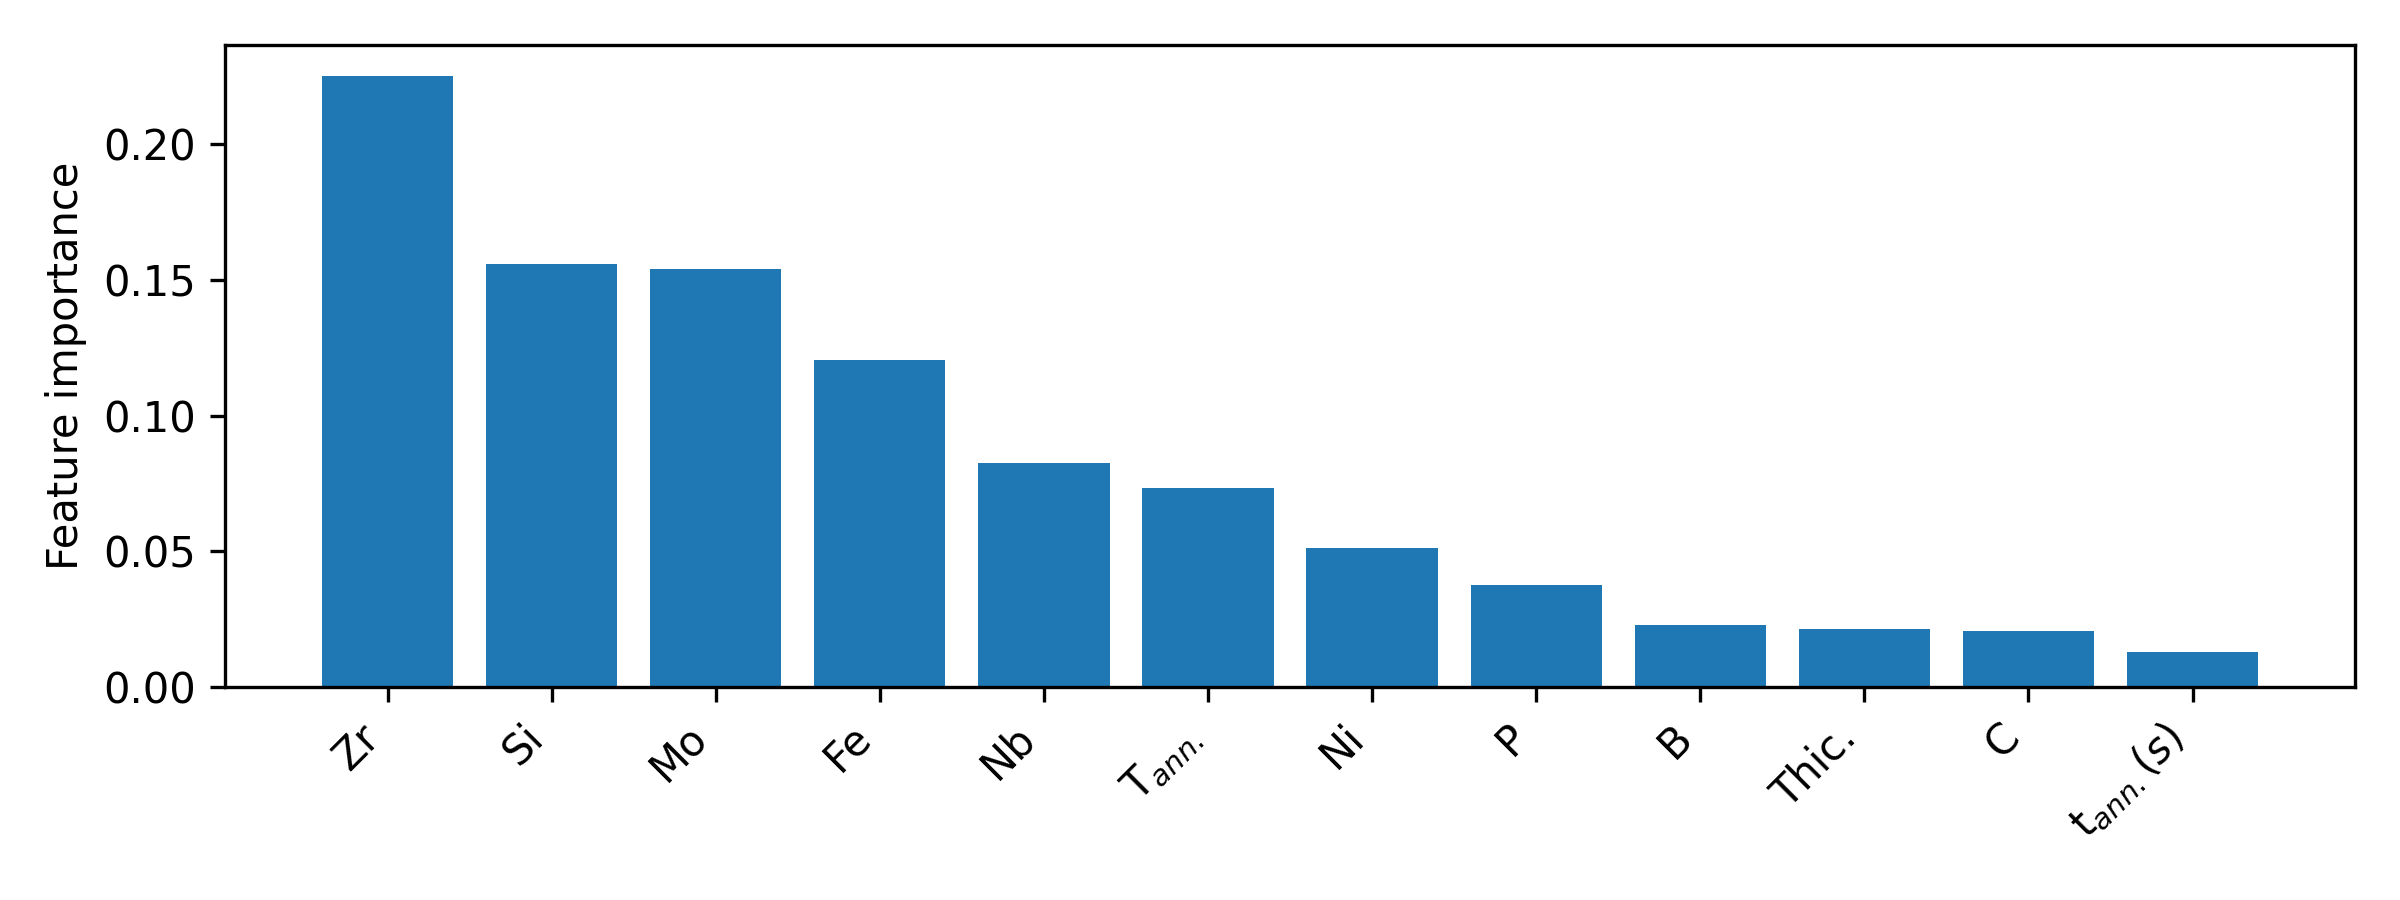
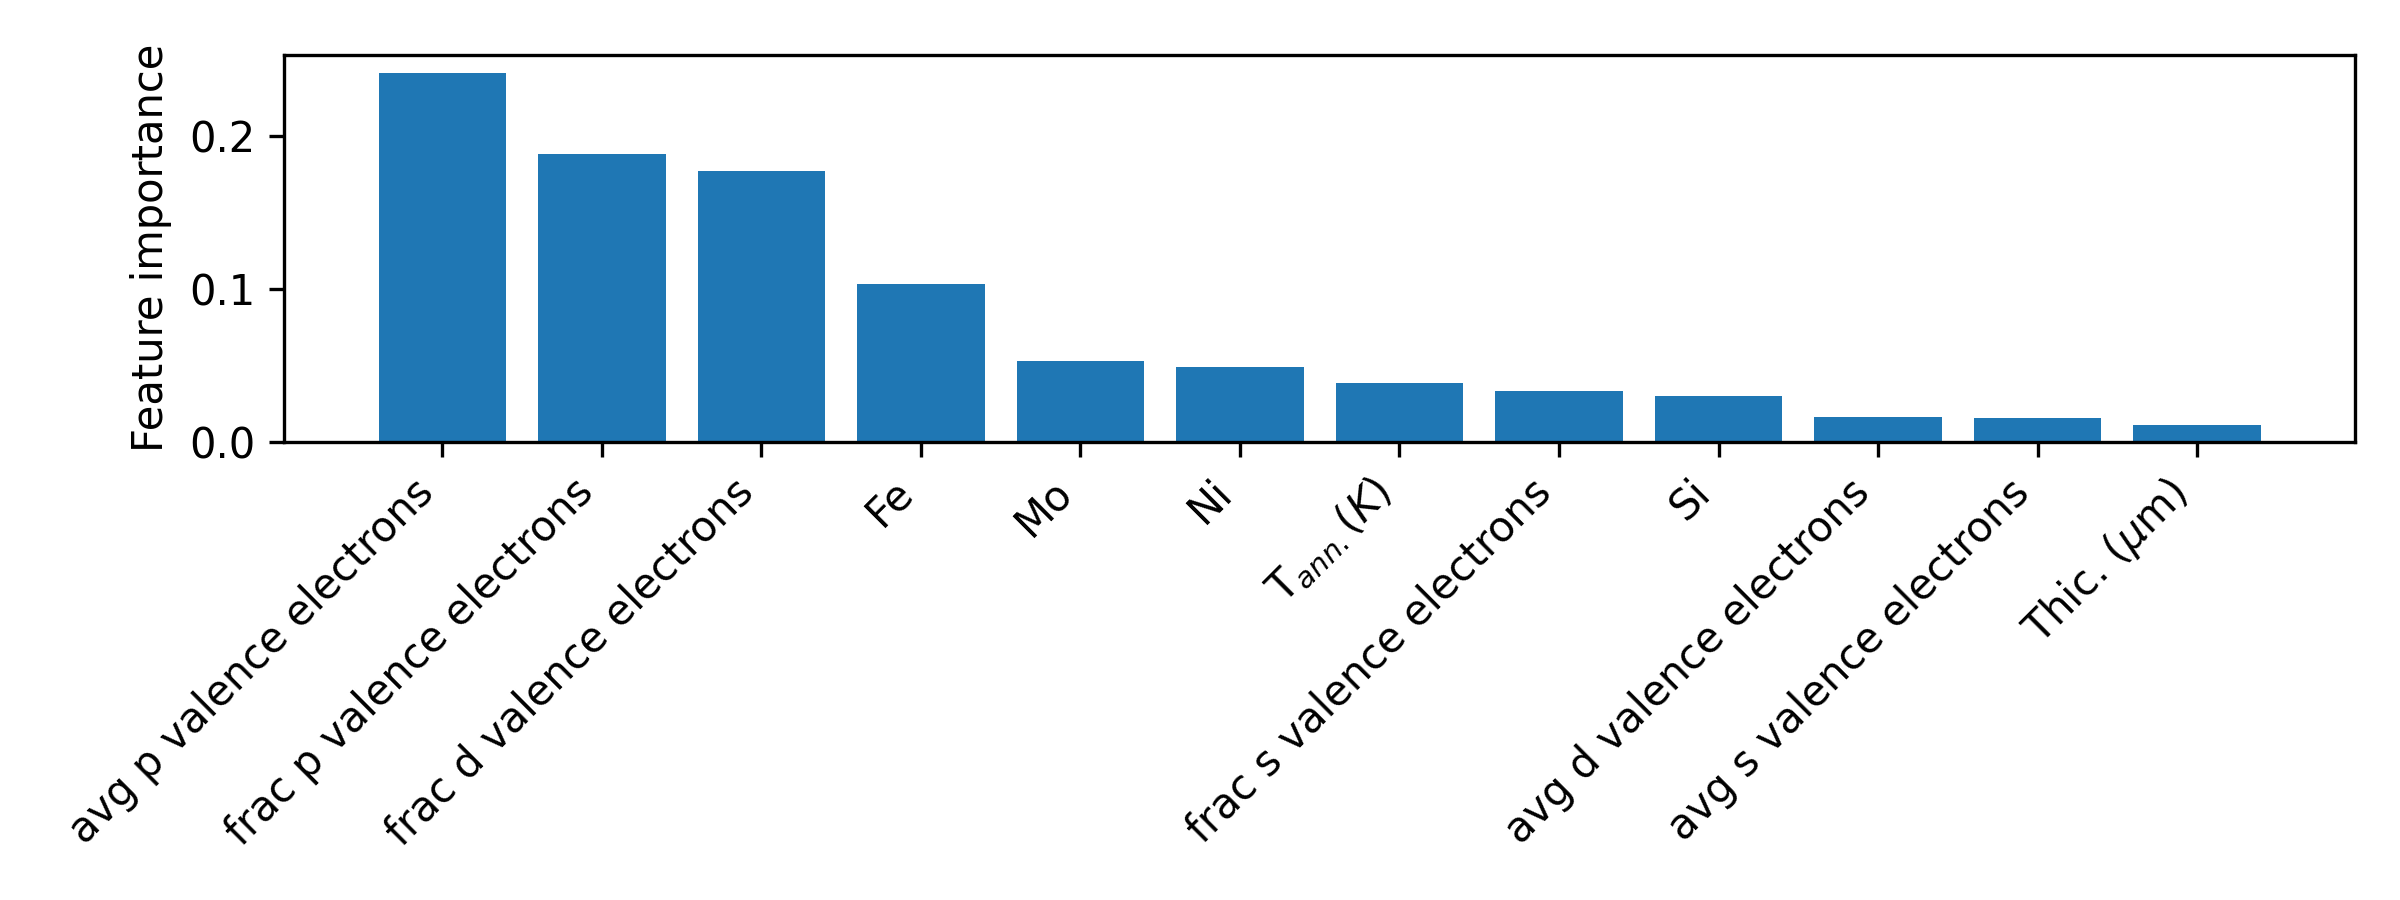
add_feature now contains all relevant features I am inspecting. Corrected typos in NOTES.md. fit_Tc.ipynb now uses add_feature from utils.

diff --git a/utils/add_feature.py b/utils/add_feature.py
@@ -14,3 +14,28 @@ def add_magpie(df, composition_col_name="composition"):
     magpie_properties = ElementProperty.from_preset(preset_name='magpie')
     df = magpie_properties.featurize_dataframe(df, "composition")
     return df
+
+def add_valence_orbitals(df, composition_col_name="composition"):
+    from matminer.featurizers.composition.orbital import ValenceOrbital
+    val_orb_properties = ValenceOrbital()
+    df = val_orb_properties.featurize_dataframe(df, "composition")
+    return df
+
+def add_Wen_alloys(df, composition_col_name="composition"):
+    from matminer.featurizers.composition.alloy import WenAlloys
+    wen_alloy_properties = WenAlloys()
+    df = wen_alloy_properties.featurize_dataframe(df, "composition")
+    return df
+
+def add_Yang_alloys(df, composition_col_name="composition"):
+    from matminer.featurizers.composition.alloy import YangSolidSolution
+    yang_alloy_properties = YangSolidSolution()
+    df = yang_alloy_properties.featurize_dataframe(df, "composition")
+    return df
+
+def add_Meredig(df, composition_col_name="composition"):
+    from matminer.featurizers.composition import Meredig
+    meredig_properties = Meredig()
+    df = meredig_properties.featurize_dataframe(df, "composition")
+    return df
+

diff --git a/NOTES.md b/NOTES.md
@@ -1,5 +1,5 @@
 check out 
 - https://hackingmaterials.lbl.gov/matminer/matminer.featurizers.composition.html#matminer.featurizers.composition.orbital.ValenceOrbital
-- https://hackingmaterials.lbl.gov/matminer/matminer.featurizers.composition.html#matminer.featurizers.composition.orbital.ValenceOrbital
-- https://hackingmaterials.lbl.gov/matminer/matminer.featurizers.composition.html#matminer.featurizers.composition.orbital.ValenceOrbital
-- https://hackingmaterials.lbl.gov/matminer/matminer.featurizers.composition.html#matminer.featurizers.composition.orbital.ValenceOrbital
+- https://hackingmaterials.lbl.gov/matminer/matminer.featurizers.composition.html#matminer.featurizers.composition.composite.Meredig
+- https://hackingmaterials.lbl.gov/matminer/matminer.featurizers.composition.html#matminer.featurizers.composition.alloy.WenAlloys
+- https://hackingmaterials.lbl.gov/matminer/matminer.featurizers.composition.html#matminer.featurizers.composition.alloy.YangSolidSolution
